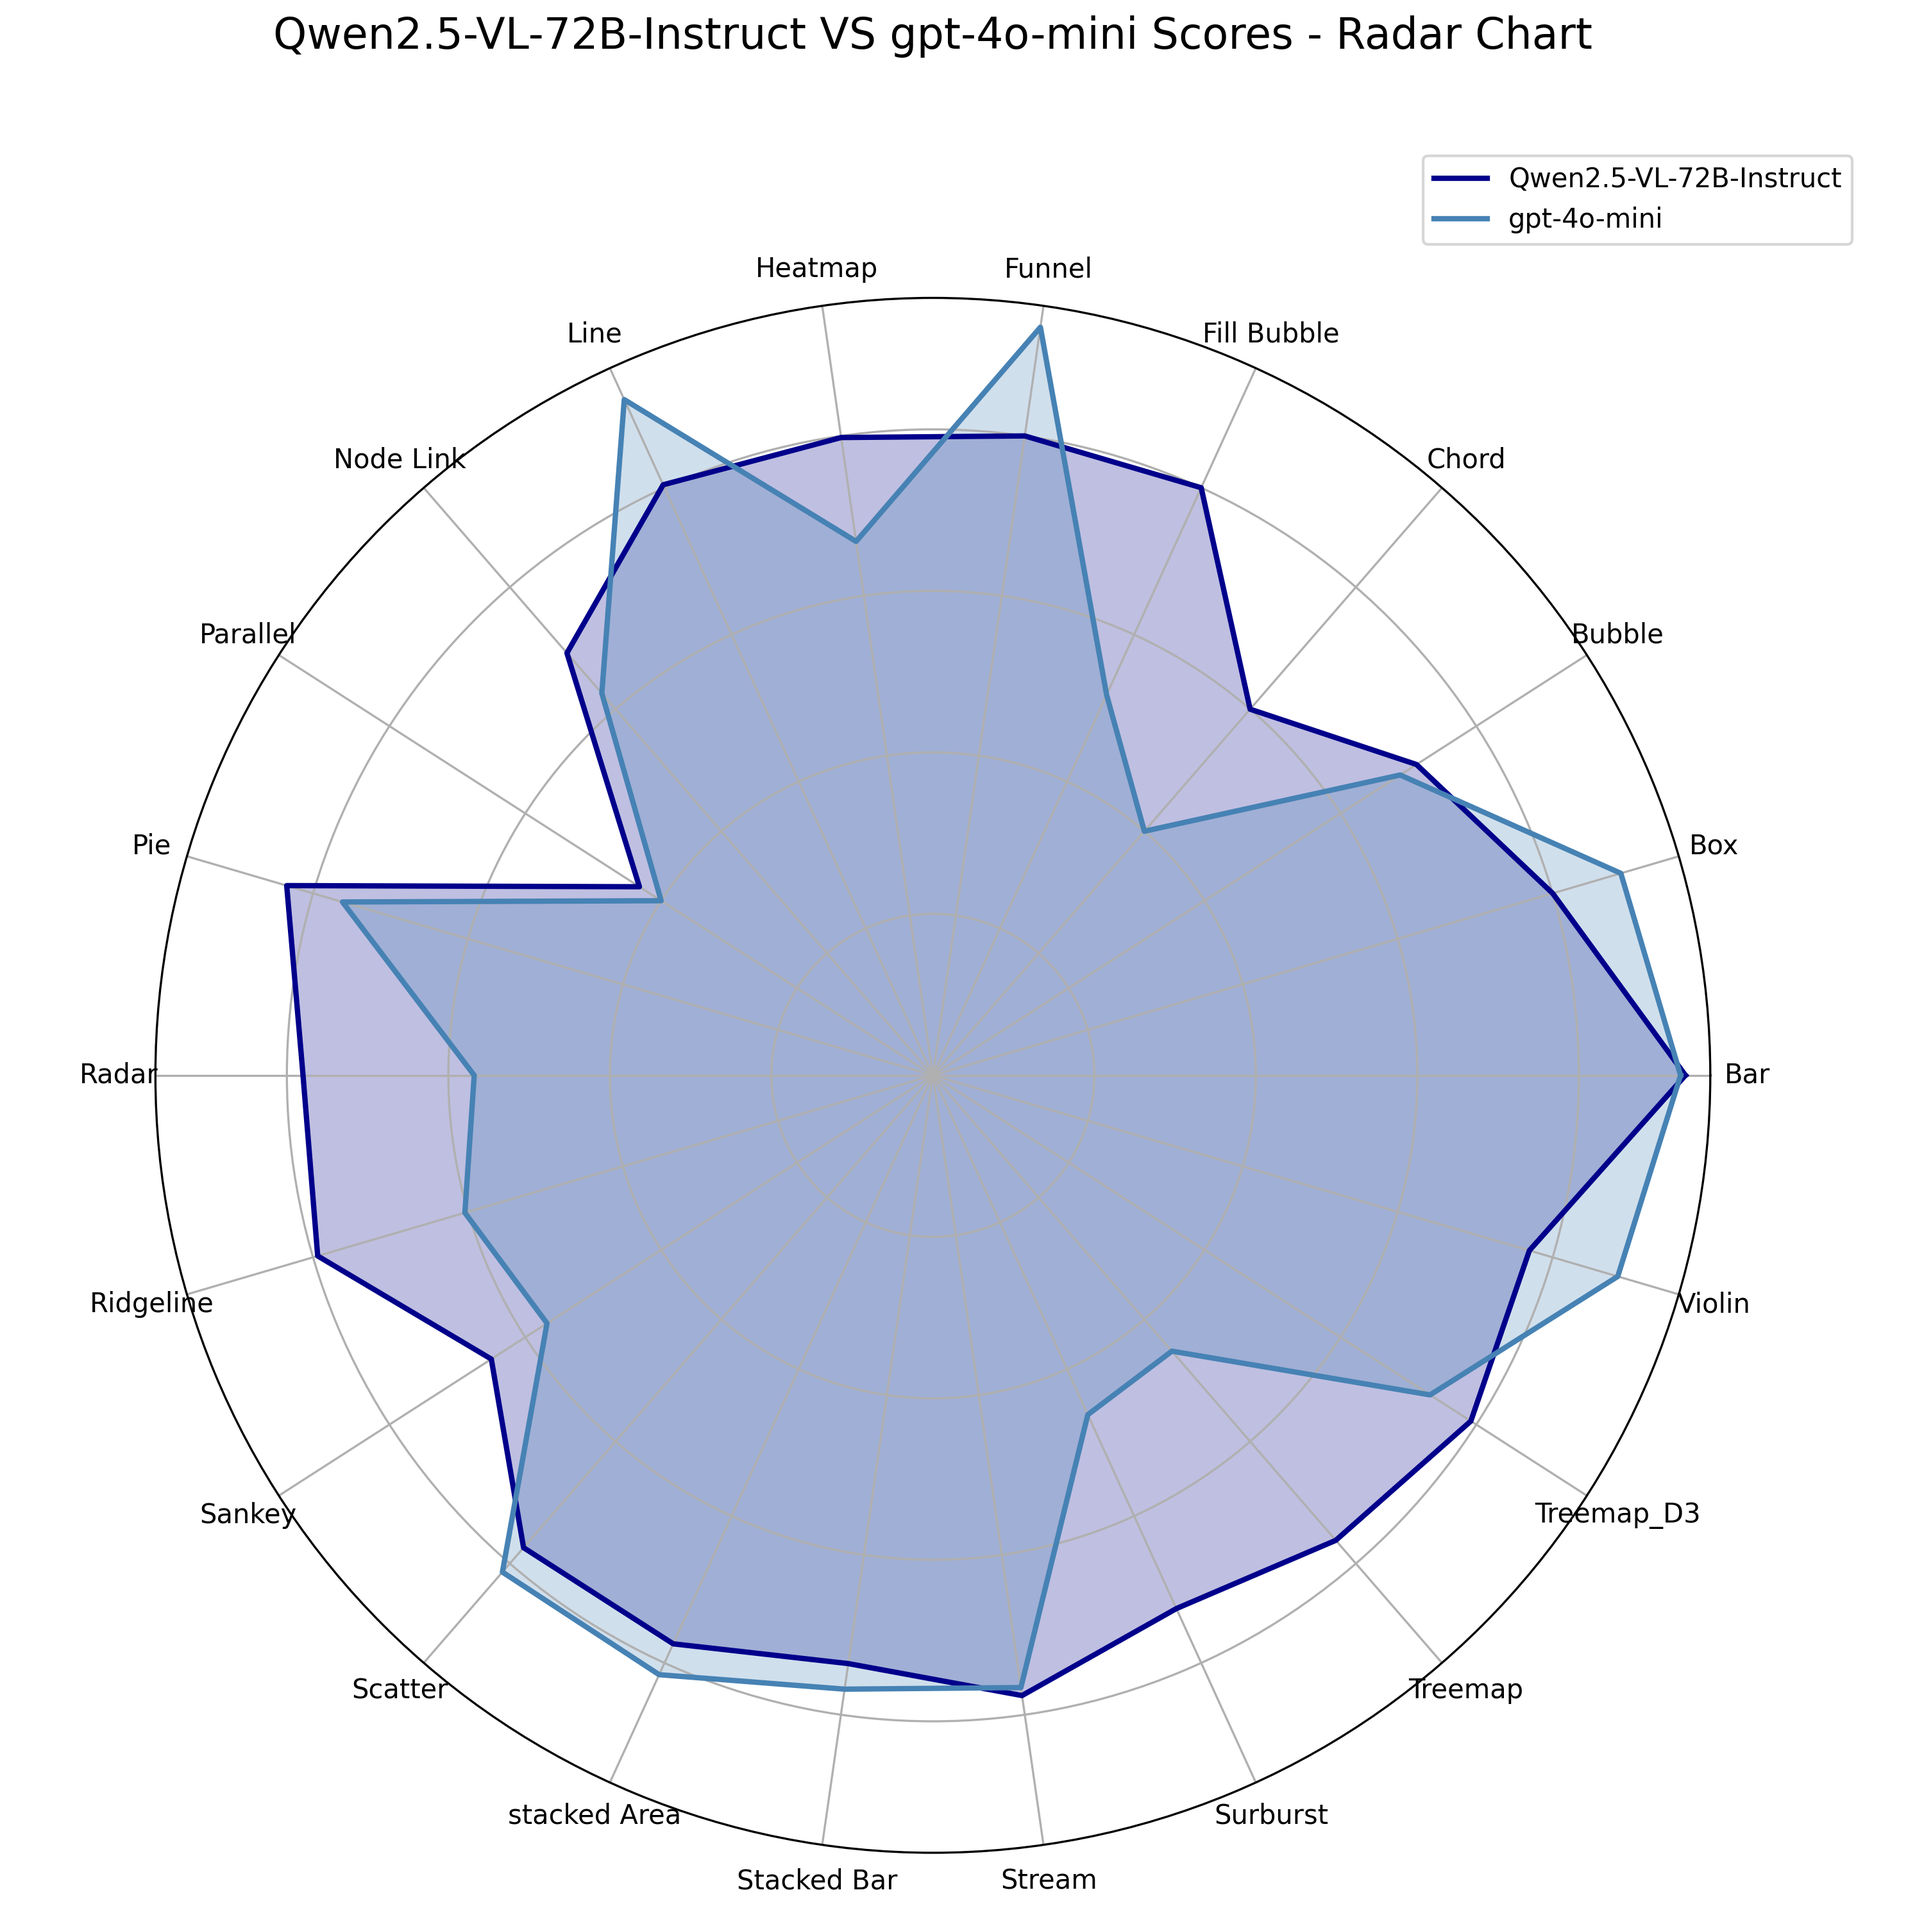
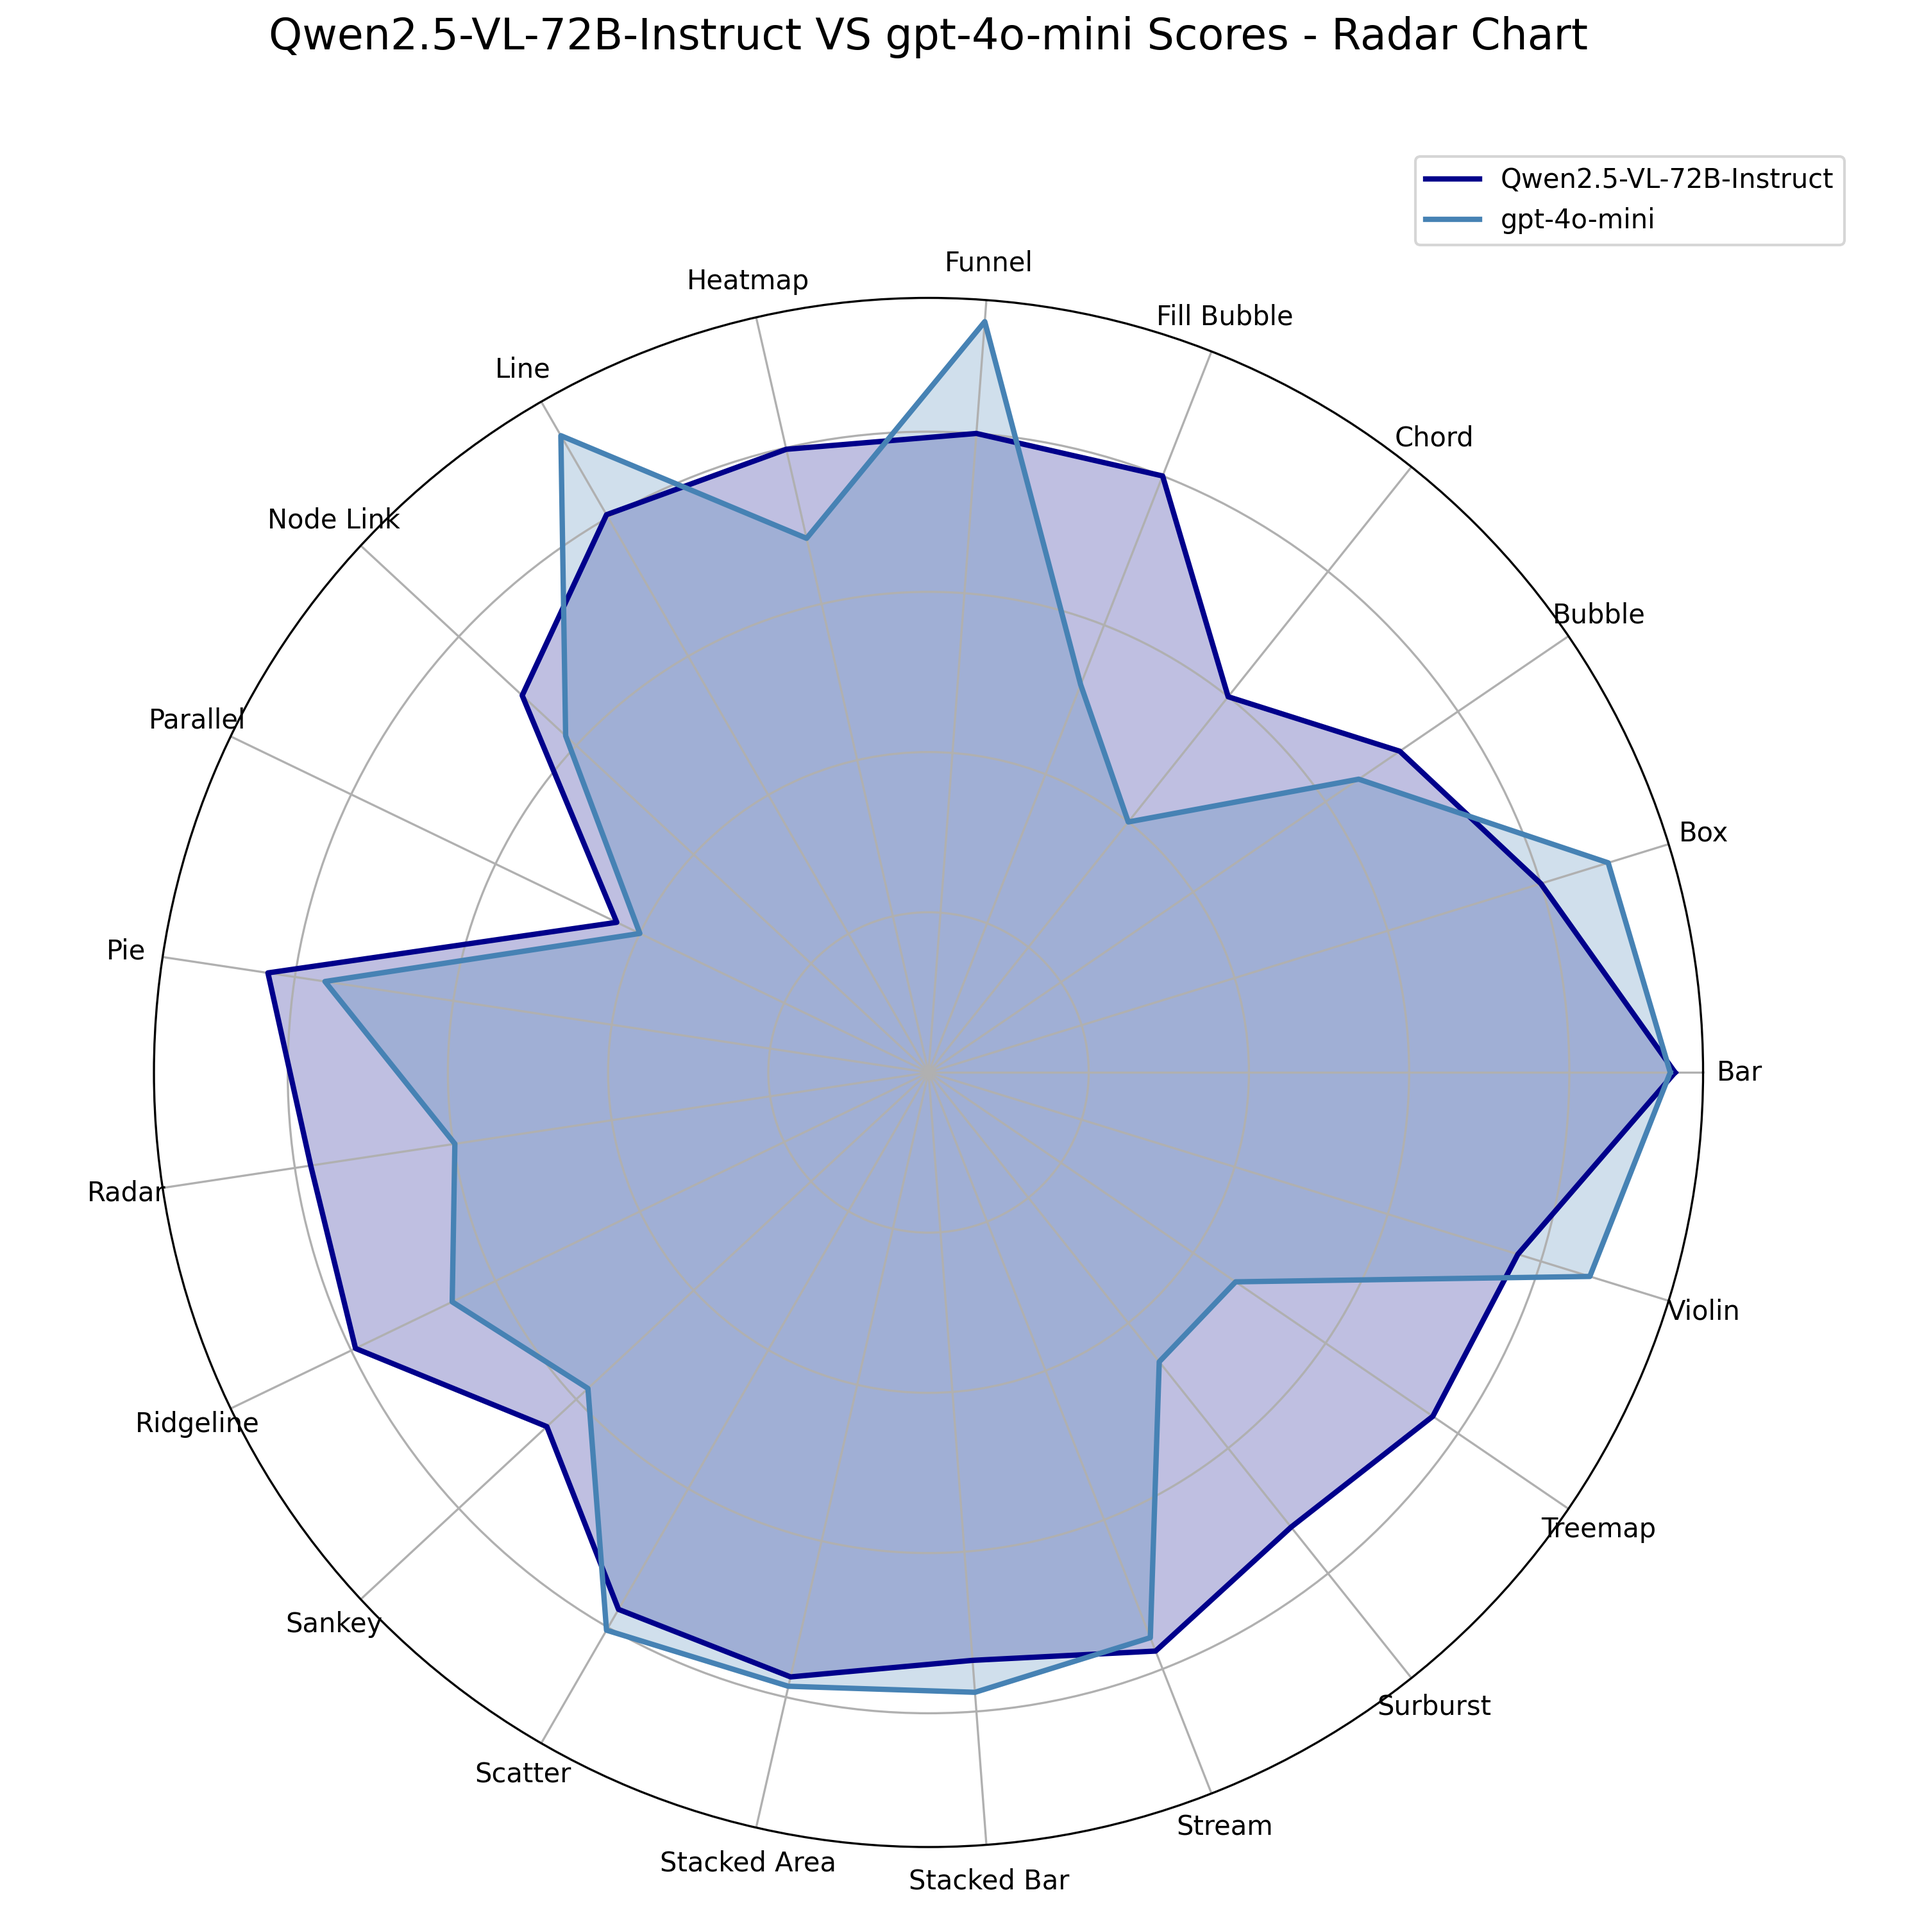
update
修改图片

diff --git a/Readability_chart/scatter_average.py b/Readability_chart/scatter_average.py
@@ -1,121 +1,200 @@
 # --------------------------------散点图-----------------------------------
-import pandas as pd
-import matplotlib.pyplot as plt
-import seaborn as sns
-
-# Constructing the data
-data = {
-    "Chart Type": [
-        "Bar", "Box", "Bubble", "Chord", "Fill Bubble", "Funnel", "Heatmap", "Line",
-        "Node Link", "Parallel", "Pie", "Radar", "Ridgeline", "Sankey", "Scatter",
-        "Stacked Area", "Stacked Bar", "Stream", "Surburst", "Treemap", "Treemap_D3", "Violin"
-    ],
-    "Qwen2.5-VL-72B-Instruct": [
-        4.66, 4.0, 3.56, 3.0, 4.0, 4.0, 3.99, 4.02, 3.46, 2.16, 4.17, 3.9,
-        3.97, 3.25, 3.87, 3.87, 3.68, 3.88, 3.63, 3.81, 3.96, 3.85
-    ],
-    "gpt-4o-mini": [
-        4.63, 4.44, 3.44, 2.0, 2.59, 4.68, 3.34, 4.6, 3.13, 2.0, 3.81, 2.84,
-        3.02, 2.84, 4.07, 4.08, 3.84, 3.83, 2.31, 2.26, 3.66, 4.42
-    ]
-}
-
-df = pd.DataFrame(data)
-
-# Set style
-sns.set(style="whitegrid")
-
-# Increase figure size while maintaining aspect ratio
-plt.figure(figsize=(12, 9))  # Increase figure size
-
-# Plot the scatter plot
-sns.scatterplot(
-    x='Qwen2.5-VL-72B-Instruct',
-    y='gpt-4o-mini',
-    data=df,
-    marker='o',           # Use circles
-    color='dodgerblue',
-    s=80,                 # Point size
-    edgecolor='black'
-)
-
-# Add the diagonal (best score line)
-plt.plot([1, 5], [1, 5], 'r--', label='Best Score')
-
-# Add text labels for each point, placing "Stacked Bar" and "Funnel" labels on the left
-for i in range(len(df)):
-    if df["Chart Type"][i] in ["Stacked Area", "Funnel", "Stacked Bar"]:
-        plt.text(df["Qwen2.5-VL-72B-Instruct"][i] - 0.08, df["gpt-4o-mini"][i], df["Chart Type"][i], fontsize=8, ha='right')
-    else:
-        plt.text(df["Qwen2.5-VL-72B-Instruct"][i], df["gpt-4o-mini"][i] - 0.1, df["Chart Type"][i], fontsize=8, ha='center')
-
-# Add axis labels and title in English
-plt.xlabel("Qwen2.5-VL-72B-Instruct Average Score")
-plt.ylabel("gpt-4o-mini Average Score")
-plt.title("Qwen2.5-VL-72B-Instruct VS gpt-4o-mini Average Score Scatter Plot")
-plt.legend()
-
-# Set the same aspect ratio to avoid distortion
-plt.gca().set_aspect('equal', adjustable='box')
-
-# Display the plot with tight layout
-plt.tight_layout()
-# 导出图像为 PNG 格式，分辨率为 300 DPI
-plt.savefig('../figure/scatter_plot.png', dpi=300)
-# Show the plot
-plt.show()
-
-# ------------------柱状图---------------------------
 # import pandas as pd
 # import matplotlib.pyplot as plt
 # import seaborn as sns
-#
+
 # # Constructing the data
 # data = {
 #     "Chart Type": [
 #         "Bar", "Box", "Bubble", "Chord", "Fill Bubble", "Funnel", "Heatmap", "Line",
 #         "Node Link", "Parallel", "Pie", "Radar", "Ridgeline", "Sankey", "Scatter",
-#         "stacked Area", "Stacked Bar", "Stream", "Surburst", "Treemap", "Treemap_D3", "Violin"
+#         "Stacked Area", "Stacked Bar", "Stream", "Surburst", "Treemap",  "Violin"
 #     ],
 #     "Qwen2.5-VL-72B-Instruct": [
 #         4.66, 4.0, 3.56, 3.0, 4.0, 4.0, 3.99, 4.02, 3.46, 2.16, 4.17, 3.9,
-#         3.97, 3.25, 3.87, 3.87, 3.68, 3.88, 3.63, 3.81, 3.96, 3.85
+#         3.97, 3.25, 3.87, 3.87, 3.68, 3.88, 3.63, 3.81, 3.85
 #     ],
 #     "gpt-4o-mini": [
-#         4.63, 4.44, 3.44, 2.0, 2.59, 4.68, 3.34, 4.6, 3.13, 2.0, 3.81, 2.84,
-#         3.02, 2.84, 4.07, 4.08, 3.84, 3.83, 2.31, 2.26, 3.66, 4.42
+#         4.63, 4.44, 3.25, 2.0, 2.60, 4.7, 3.42, 4.59, 3.09, 2.0, 3.81, 2.99,
+#         3.3, 2.9, 4.02, 3.93, 3.88, 3.79, 2.31, 2.32, 4.32
 #     ]
 # }
-#
+
 # df = pd.DataFrame(data)
-#
+
 # # Set style
 # sns.set(style="whitegrid")
-#
+
+# # Increase figure size while maintaining aspect ratio
+# plt.figure(figsize=(12, 9))  # Increase figure size
+
+# # Plot the scatter plot
+# sns.scatterplot(
+#     x='Qwen2.5-VL-72B-Instruct',
+#     y='gpt-4o-mini',
+#     data=df,
+#     marker='o',           # Use circles
+#     color='dodgerblue',
+#     s=80,                 # Point size
+#     edgecolor='black'
+# )
+
+# # Add the diagonal (best score line)
+# plt.plot([1, 5], [1, 5], 'r--', label='Best Score')
+
+# # Add text labels for each point, placing "Stacked Bar" and "Funnel" labels on the left
+# for i in range(len(df)):
+#     if df["Chart Type"][i] in ["Stacked Area", "Funnel", "Stacked Bar"]:
+#         plt.text(df["Qwen2.5-VL-72B-Instruct"][i] - 0.1, df["gpt-4o-mini"][i], df["Chart Type"][i], fontsize=8, ha='right')
+#     else:
+#         plt.text(df["Qwen2.5-VL-72B-Instruct"][i], df["gpt-4o-mini"][i] - 0.1, df["Chart Type"][i], fontsize=8, ha='center')
+
+
+# # Add axis labels and title in English
+# plt.xlabel("Qwen2.5-VL-72B-Instruct Average Score")
+# plt.ylabel("gpt-4o-mini Average Score")
+# plt.title("Qwen2.5-VL-72B-Instruct VS gpt-4o-mini Average Score Scatter Plot")
+# plt.legend()
+
+# # Set the same aspect ratio to avoid distortion
+# plt.gca().set_aspect('equal', adjustable='box')
+
+# # Display the plot with tight layout
+# plt.tight_layout()
+# # 导出图像为 PNG 格式，分辨率为 300 DPI
+# plt.savefig('../figure/scatter_plot.png', dpi=300)
+# # Show the plot
+# plt.show()
+import pandas as pd
+import matplotlib.pyplot as plt
+import seaborn as sns
+
+# 构造数据
+data = {
+    "Chart Type": [
+        "Bar", "Box", "Bubble", "Chord", "Fill Bubble", "Funnel", "Heatmap", "Line",
+        "Node Link", "Parallel", "Pie", "Radar", "Ridgeline", "Sankey", "Scatter",
+        "Stacked Area", "Stacked Bar", "Stream", "Surburst", "Treemap", "Violin"
+    ],
+    "Qwen2.5-VL-72B-Instruct": [
+        4.66, 4.0, 3.56, 3.0, 4.0, 4.0, 3.99, 4.02, 3.46, 2.16, 4.17, 3.9,
+        3.97, 3.25, 3.87, 3.87, 3.68, 3.88, 3.63, 3.81, 3.85
+    ],
+    "gpt-4o-mini": [
+        4.63, 4.44, 3.25, 2.0, 2.60, 4.7, 3.42, 4.59, 3.09, 2.0, 3.81, 2.99,
+        3.3, 2.9, 4.02, 3.93, 3.88, 3.79, 2.31, 2.32, 4.32
+    ]
+}
+
+df = pd.DataFrame(data)
+
+# 绘制
+sns.set(style="whitegrid")
+plt.figure(figsize=(12, 9))
+
+# 绘制散点
+plt.scatter(
+    df['Qwen2.5-VL-72B-Instruct'],
+    df['gpt-4o-mini'],
+    color='dodgerblue',
+    s=80,
+    edgecolor='black'
+)
+
+# 对角线
+plt.plot([1, 5], [1, 5], 'r--', label='Best Score')
+
+# 添加标签：偶数点右移，奇数点左移 + 特殊调整
+for i, row in df.iterrows():
+    x = row['Qwen2.5-VL-72B-Instruct']
+    y = row['gpt-4o-mini']
+
+    # 特殊偏移
+    if row['Chart Type'] == "Treemap":
+        y += 0.08  # 向上
+    elif row['Chart Type'] == "Surburst":
+        y -= 0.08  # 向下
+
+    # 水平偏移
+    if i % 2 == 0:
+        plt.text(
+            x + 0.08, y,
+            row['Chart Type'],
+            ha='left', va='center', fontsize=8,
+            bbox=dict(facecolor='white', alpha=0.0, edgecolor='none', pad=0.5)
+        )
+    else:
+        plt.text(
+            x - 0.08, y,
+            row['Chart Type'],
+            ha='right', va='center', fontsize=8,
+            bbox=dict(facecolor='white', alpha=0.0, edgecolor='none', pad=0.5)
+        )
+
+# 细节设置
+plt.xlabel("Qwen2.5-VL-72B-Instruct Average Score")
+plt.ylabel("gpt-4o-mini Average Score")
+plt.title("Qwen2.5-VL-72B-Instruct VS gpt-4o-mini Average Score Scatter Plot")
+plt.legend()
+plt.gca().set_aspect('equal', adjustable='box')
+plt.tight_layout()
+
+plt.savefig('../figure/scatter_plot_treemap_surburst_adjust.png', dpi=300)
+plt.show()
+
+
+
+# ------------------柱状图---------------------------
+# import pandas as pd
+# import matplotlib.pyplot as plt
+# import seaborn as sns
+
+# # Constructing the data
+# data = {
+#     "Chart Type": [
+#         "Bar", "Box", "Bubble", "Chord", "Fill Bubble", "Funnel", "Heatmap", "Line",
+#         "Node Link", "Parallel", "Pie", "Radar", "Ridgeline", "Sankey", "Scatter",
+#         "Stacked Area", "Stacked Bar", "Stream", "Surburst", "Treemap",  "Violin"
+#     ],
+#     "Qwen2.5-VL-72B-Instruct": [
+#         4.66, 4.0, 3.56, 3.0, 4.0, 4.0, 3.99, 4.02, 3.46, 2.16, 4.17, 3.9,
+#         3.97, 3.25, 3.87, 3.87, 3.68, 3.88, 3.63, 3.81, 3.85
+#     ],
+#     "gpt-4o-mini": [
+#         4.63, 4.44, 3.25, 2.0, 2.60, 4.7, 3.42, 4.59, 3.09, 2.0, 3.81, 2.99,
+#         3.3, 2.9, 4.02, 3.93, 3.88, 3.79, 2.31, 2.32, 4.32
+#     ]
+# }
+
+# df = pd.DataFrame(data)
+
+# # Set style
+# sns.set(style="whitegrid")
+
 # # Increase figure size for better readability
 # plt.figure(figsize=(14, 8))
-#
+
 # # Melt the data to make it easier to plot
 # df_melted = df.melt(id_vars="Chart Type", value_vars=["Qwen2.5-VL-72B-Instruct", "gpt-4o-mini"], var_name="Model", value_name="Score")
-#
+
 # # Set a custom color palette with two shades of blue (dark blue and light blue)
 # palette = ['#1f3a69', '#5c8bb5']  # Dark blue and light blue
-#
+
 # # Plot with seaborn's barplot, using the custom palette
 # sns.barplot(x="Chart Type", y="Score", hue="Model", data=df_melted, palette=palette)
-#
+
 # # Rotate the x-axis labels by 45 degrees clockwise
 # plt.xticks(rotation=45)
-#
+
 # # Set y-axis limits to be between 1 and 5
 # plt.ylim(1, 5)
-#
+
 # # Add axis labels and title
 # plt.xlabel("Chart Type")
 # plt.ylabel("Average Score")
 # plt.title("Qwen2.5-VL-72B-Instruct and gpt-4o-mini Average Scores by Bar Chart")
 # plt.legend(title="Model")
-#
+
 # # Show the plot
 # plt.tight_layout()
 # plt.savefig('../figure/bar.png', dpi=300)
@@ -124,47 +203,47 @@ plt.show()
 # import pandas as pd
 # import numpy as np
 # import matplotlib.pyplot as plt
-#
+
 # # 数据构建
 # data = {
 #     "Chart Type": [
 #         "Bar", "Box", "Bubble", "Chord", "Fill Bubble", "Funnel", "Heatmap", "Line",
 #         "Node Link", "Parallel", "Pie", "Radar", "Ridgeline", "Sankey", "Scatter",
-#         "stacked Area", "Stacked Bar", "Stream", "Surburst", "Treemap", "Treemap_D3", "Violin"
+#         "Stacked Area", "Stacked Bar", "Stream", "Surburst", "Treemap",  "Violin"
 #     ],
-#     "Qwen": [
+#     "Qwen2.5-VL-72B-Instruct": [
 #         4.66, 4.0, 3.56, 3.0, 4.0, 4.0, 3.99, 4.02, 3.46, 2.16, 4.17, 3.9,
-#         3.97, 3.25, 3.87, 3.87, 3.68, 3.88, 3.63, 3.81, 3.96, 3.85
+#         3.97, 3.25, 3.87, 3.87, 3.68, 3.88, 3.63, 3.81, 3.85
 #     ],
-#     "GPT": [
-#         4.63, 4.44, 3.44, 2.0, 2.59, 4.68, 3.34, 4.6, 3.13, 2.0, 3.81, 2.84,
-#         3.02, 2.84, 4.07, 4.08, 3.84, 3.83, 2.31, 2.26, 3.66, 4.42
+#     "gpt-4o-mini": [
+#         4.63, 4.44, 3.25, 2.0, 2.60, 4.7, 3.42, 4.59, 3.09, 2.0, 3.81, 2.99,
+#         3.3, 2.9, 4.02, 3.93, 3.88, 3.79, 2.31, 2.32, 4.32
 #     ]
 # }
-#
+
 # df = pd.DataFrame(data)
-#
+
 # # 准备雷达图数据
 # labels = df['Chart Type']
-# qwen_scores = df['Qwen']
-# gpt_scores = df['GPT']
+# qwen_scores = df['Qwen2.5-VL-72B-Instruct']
+# gpt_scores = df['gpt-4o-mini']
 # num_vars = len(labels)
 # angles = np.linspace(0, 2 * np.pi, num_vars, endpoint=False).tolist()
-#
+
 # # 闭合图形
 # qwen_scores = np.concatenate((qwen_scores, [qwen_scores[0]]))
 # gpt_scores = np.concatenate((gpt_scores, [gpt_scores[0]]))
 # angles += angles[:1]
-#
+
 # # 画图
 # fig, ax = plt.subplots(figsize=(10, 10), subplot_kw=dict(polar=True))
-#
+
 # # 数据绘制
 # ax.fill(angles, qwen_scores, color='darkblue', alpha=0.25)
 # ax.fill(angles, gpt_scores, color='#4682B4', alpha=0.25)
 # ax.plot(angles, qwen_scores, color='darkblue', linewidth=2, label='Qwen2.5-VL-72B-Instruct')
 # ax.plot(angles, gpt_scores, color='#4682B4', linewidth=2, label='gpt-4o-mini')
-#
+
 # # 调整标签距离中心的半径位置
 # ax.set_xticks(angles[:-1])
 # ax.set_xticklabels(labels)
@@ -175,16 +254,16 @@ plt.show()
 #     label.set_fontsize(10)
 #     # 控制label离中心的距离（这句是关键）
 #     label.set_position((1.1, 0.0008))  # 1.1是半径比例，适当调整即可
-#
+
 # # 隐藏极轴刻度
 # ax.set_yticklabels([])
-#
+
 # # 移动标题更靠上
 # plt.title("Qwen2.5-VL-72B-Instruct VS gpt-4o-mini Scores - Radar Chart", size=16, y=1.15)
-#
+
 # # 图例
 # plt.legend(loc='upper right', bbox_to_anchor=(1.1, 1.1))
-#
+
 # plt.tight_layout()
 # plt.savefig('../figure/radar.png', dpi=300)
 # plt.show()
